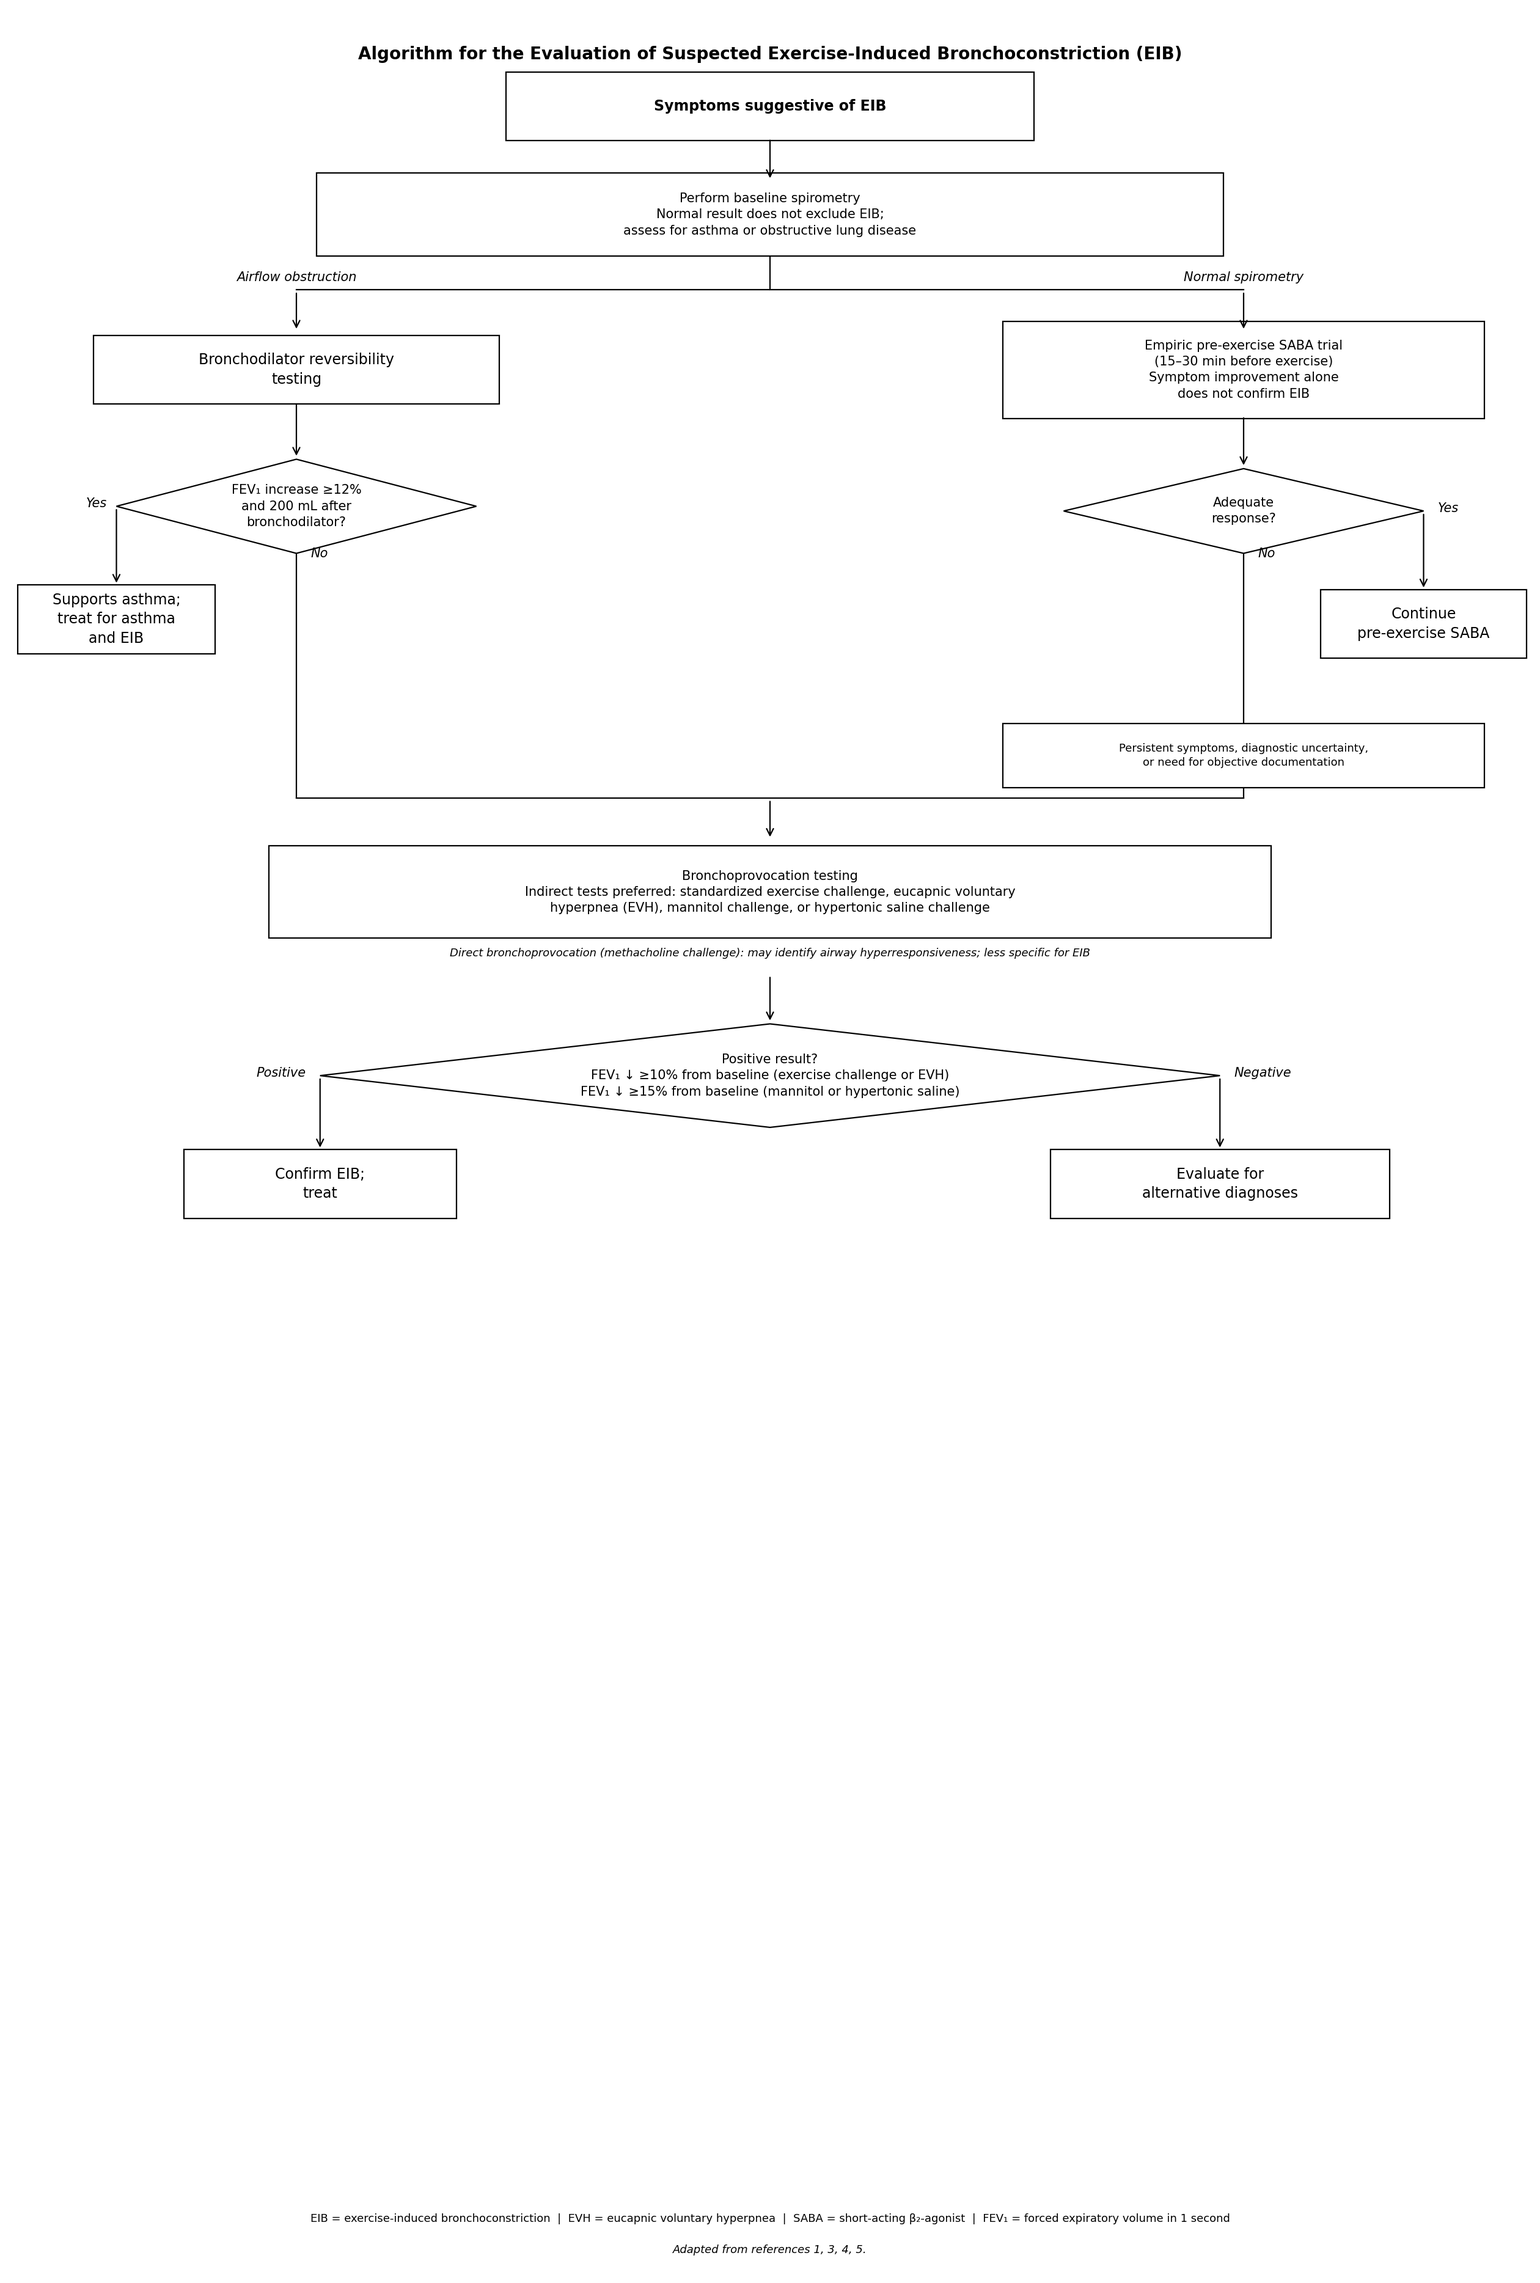
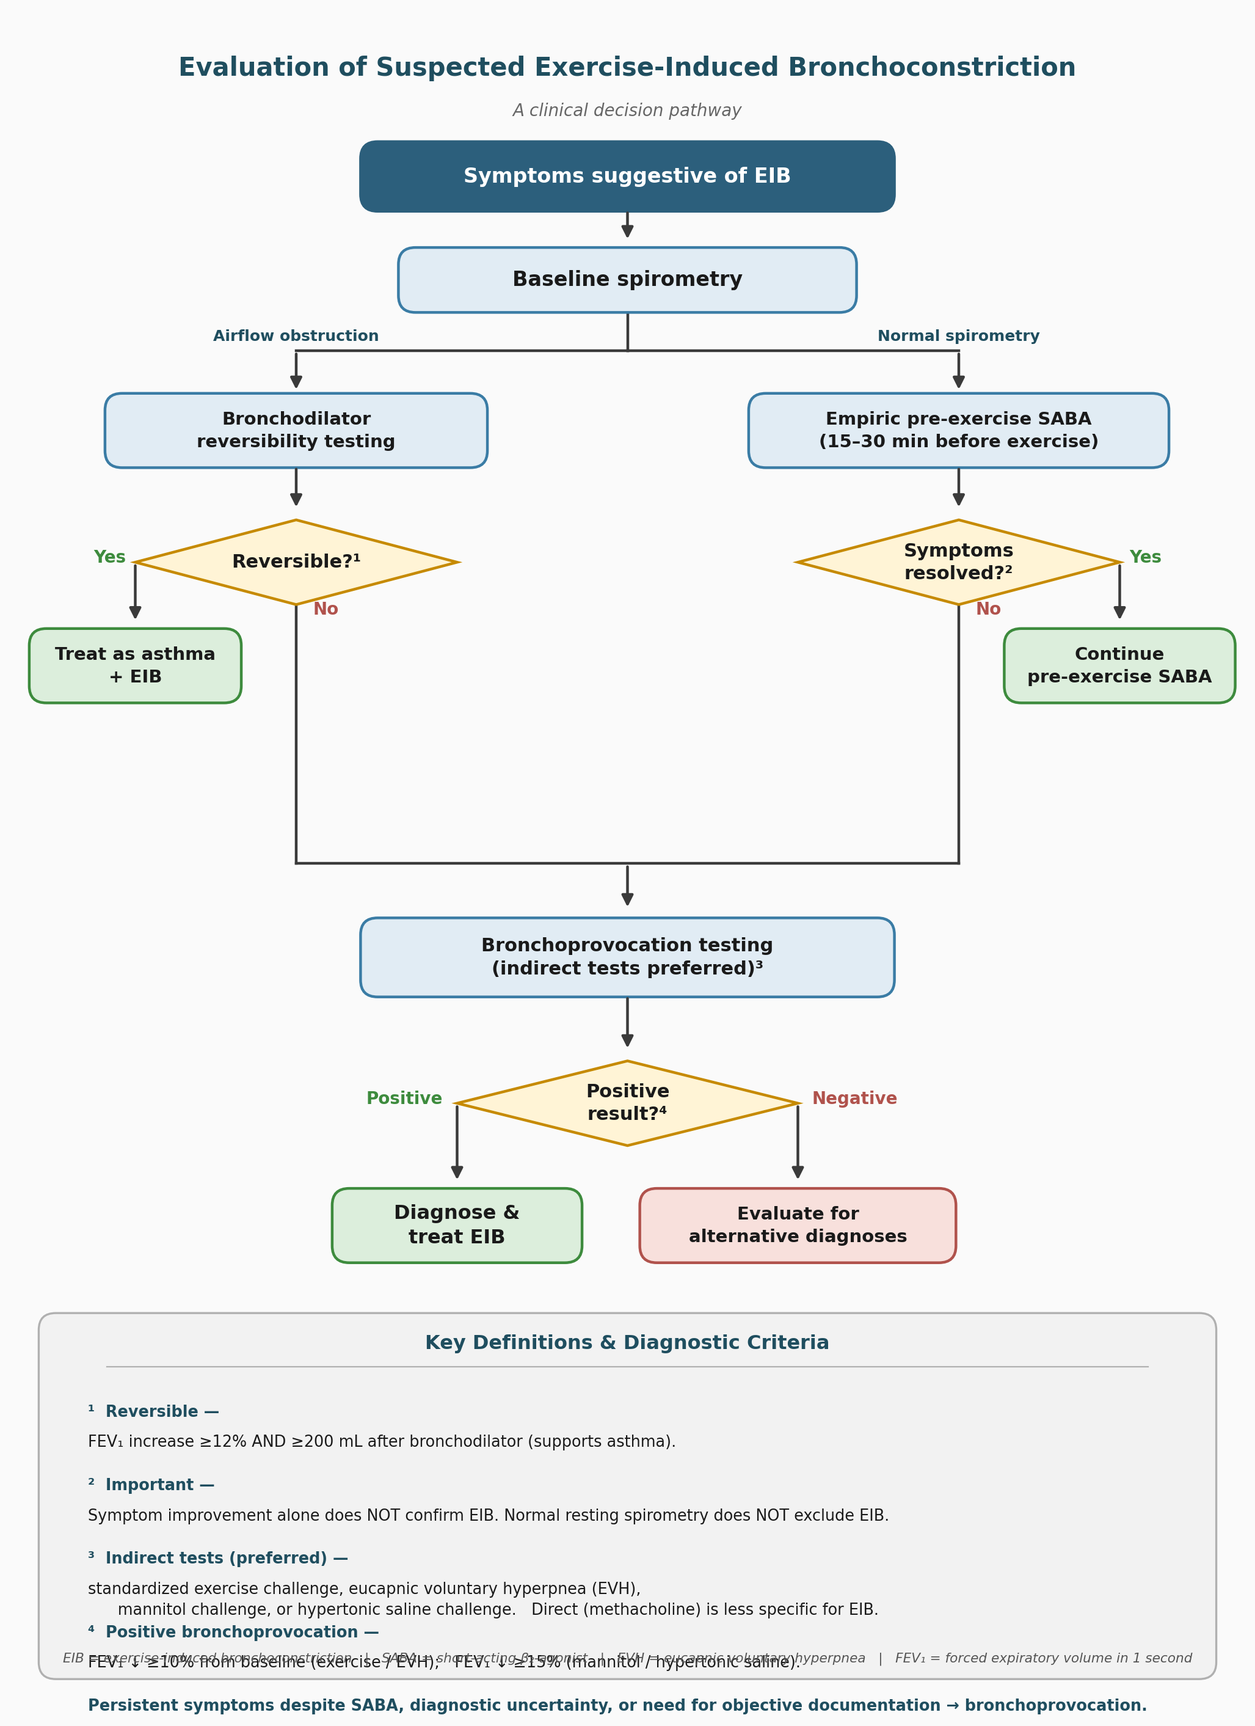
Redesign spirometry pathway for clinical use
- Color-coded shapes by purpose: blue = action/test, amber = decision,
  green = treatment, salmon = alternative diagnosis
- Simplified box content; thresholds moved to a numbered reference
  legend at the bottom of the figure
- Cleaner typography, rounded corners, and a pocket-card style title
  for at-a-glance clinic use

https://claude.ai/code/session_0186zG6Pr9VM5M9H5RAVKgcK

diff --git a/generate_pathway.py b/generate_pathway.py
@@ -1,176 +1,217 @@
 #!/usr/bin/env python3
-"""EIB Spirometry Pathway – AFP rapid evidence review style"""
+"""EIB Spirometry Pathway - clinical pocket-card style."""
 import matplotlib
 matplotlib.use('Agg')
 import matplotlib.pyplot as plt
 from matplotlib.patches import FancyBboxPatch, Polygon
 
-fig, ax = plt.subplots(figsize=(16, 24))
-ax.set_xlim(0, 16)
-ax.set_ylim(0, 24)
+# ── Palette ───────────────────────────────────────────────────────────────
+C_BG          = '#FAFAFA'
+C_TITLE       = '#1F4E5F'
+C_HEADER_FILL = '#2C5F7C'
+C_HEADER_TX   = '#FFFFFF'
+C_ACTION_F    = '#E1ECF4'
+C_ACTION_E    = '#3A7CA5'
+C_DECISION_F  = '#FFF4D6'
+C_DECISION_E  = '#C68A00'
+C_TREAT_F     = '#DCEEDC'
+C_TREAT_E     = '#3D8B3D'
+C_ALT_F       = '#F8E0DC'
+C_ALT_E       = '#B0524C'
+C_TEXT        = '#1A1A1A'
+C_ARROW       = '#3A3A3A'
+C_LEGEND_BG   = '#F2F2F2'
+C_LEGEND_EDGE = '#B0B0B0'
+C_YES         = '#3D8B3D'
+C_NO          = '#B0524C'
+
+plt.rcParams['font.family'] = 'DejaVu Sans'
+
+fig, ax = plt.subplots(figsize=(13, 18))
+ax.set_xlim(0, 13)
+ax.set_ylim(0, 18)
 ax.axis('off')
-fig.patch.set_facecolor('white')
-
-LW = 0.8
-FS = 8.5
-FSS = 7.5
-FST = 7.0
+fig.patch.set_facecolor(C_BG)
+ax.set_facecolor(C_BG)
 
 
-def rect(cx, cy, w, h, text, fs=FS, bold=False, lw=LW):
-    p = FancyBboxPatch((cx - w / 2, cy - h / 2), w, h,
-                       boxstyle="square,pad=0.04",
-                       fc='white', ec='black', lw=lw, zorder=3)
+def rrect(cx, cy, w, h, text, fill, edge, fs=10, bold=False, text_color=None):
+    if text_color is None:
+        text_color = C_TEXT
+    p = FancyBboxPatch((cx - w/2, cy - h/2), w, h,
+                       boxstyle='round,pad=0.02,rounding_size=0.18',
+                       fc=fill, ec=edge, lw=1.6, zorder=3)
     ax.add_patch(p)
     ax.text(cx, cy, text, ha='center', va='center', fontsize=fs,
-            multialignment='center', linespacing=1.4,
+            color=text_color, multialignment='center', linespacing=1.4,
             fontweight='bold' if bold else 'normal', zorder=4)
 
 
-def diam(cx, cy, w, h, text, fs=FSS):
-    pts = [[cx, cy + h / 2], [cx + w / 2, cy],
-           [cx, cy - h / 2], [cx - w / 2, cy]]
-    p = Polygon(pts, fc='white', ec='black', lw=LW, zorder=3)
+def diamond(cx, cy, w, h, text, fs=10):
+    pts = [[cx, cy + h/2], [cx + w/2, cy],
+           [cx, cy - h/2], [cx - w/2, cy]]
+    p = Polygon(pts, fc=C_DECISION_F, ec=C_DECISION_E, lw=1.6, zorder=3)
     ax.add_patch(p)
     ax.text(cx, cy, text, ha='center', va='center', fontsize=fs,
-            multialignment='center', linespacing=1.4, zorder=4)
+            color=C_TEXT, multialignment='center', linespacing=1.35,
+            fontweight='bold', zorder=4)
 
 
 def arr(x1, y1, x2, y2):
     ax.annotate('', xy=(x2, y2), xytext=(x1, y1),
-                arrowprops=dict(arrowstyle='->', color='black', lw=LW,
-                                mutation_scale=10), zorder=5)
+                arrowprops=dict(arrowstyle='-|>', color=C_ARROW, lw=1.6,
+                                mutation_scale=14), zorder=5)
 
 
 def ln(*pts):
     xs, ys = zip(*pts)
-    ax.plot(xs, ys, 'k-', lw=LW, zorder=2)
+    ax.plot(xs, ys, color=C_ARROW, lw=1.6, zorder=2)
 
 
-def lbl(x, y, text, fs=FSS, ha='center', va='center', italic=True):
-    ax.text(x, y, text, ha=ha, va=va, fontsize=fs,
-            style='italic' if italic else 'normal', zorder=6)
+def lbl(x, y, text, fs=9, ha='center', va='center', color='#444444', bold=True):
+    ax.text(x, y, text, ha=ha, va=va, fontsize=fs, color=color,
+            fontweight='bold' if bold else 'normal', zorder=6)
 
 
-# ── Title ─────────────────────────────────────────────────────────────────────
-ax.text(8, 23.55,
-        'Algorithm for the Evaluation of Suspected Exercise-Induced Bronchoconstriction (EIB)',
-        ha='center', va='center', fontsize=10, fontweight='bold', zorder=4)
+# ── Title ─────────────────────────────────────────────────────────────────
+ax.text(6.5, 17.4,
+        'Evaluation of Suspected Exercise-Induced Bronchoconstriction',
+        ha='center', va='center', fontsize=15, fontweight='bold',
+        color=C_TITLE)
+ax.text(6.5, 16.95, 'A clinical decision pathway',
+        ha='center', va='center', fontsize=10, style='italic',
+        color='#666666')
 
-# ── Symptoms box ──────────────────────────────────────────────────────────────
-rect(8, 23.0, 5.5, 0.65, 'Symptoms suggestive of EIB', bold=True, fs=FS)
-arr(8, 22.675, 8, 22.2)
+# ── 1. Symptoms (header chip) ─────────────────────────────────────────────
+rrect(6.5, 16.25, 5.6, 0.7,
+      'Symptoms suggestive of EIB',
+      C_HEADER_FILL, C_HEADER_FILL,
+      fs=12, bold=True, text_color=C_HEADER_TX)
+arr(6.5, 15.9, 6.5, 15.55)
 
-# ── Spirometry box ────────────────────────────────────────────────────────────
-rect(8, 21.85, 9.5, 0.8,
-     'Perform baseline spirometry\n'
-     'Normal result does not exclude EIB;\n'
-     'assess for asthma or obstructive lung disease',
-     fs=FSS)
+# ── 2. Spirometry ─────────────────────────────────────────────────────────
+rrect(6.5, 15.15, 4.8, 0.65,
+      'Baseline spirometry',
+      C_ACTION_F, C_ACTION_E, fs=12, bold=True)
 
-# Branch lines from spirometry
-ln((8, 21.45), (8, 21.05), (3.0, 21.05))
-ln((8, 21.05), (13.0, 21.05))
-arr(3.0, 21.05, 3.0, 20.6)
-arr(13.0, 21.05, 13.0, 20.6)
-lbl(3.0, 21.18, 'Airflow obstruction')
-lbl(13.0, 21.18, 'Normal spirometry')
+# Branch lines
+ln((6.5, 14.825), (6.5, 14.4))
+ln((6.5, 14.4), (3.0, 14.4))
+ln((6.5, 14.4), (10.0, 14.4))
+arr(3.0, 14.4, 3.0, 13.95)
+arr(10.0, 14.4, 10.0, 13.95)
+lbl(3.0, 14.55, 'Airflow obstruction', fs=9, color=C_TITLE)
+lbl(10.0, 14.55, 'Normal spirometry', fs=9, color=C_TITLE)
 
-# ═════════════════════════════════════════════════════════════════════════════
-# LEFT BRANCH – Abnormal spirometry
-# ═════════════════════════════════════════════════════════════════════════════
+# ══════════════════════ LEFT BRANCH ═══════════════════════════════════════
+rrect(3.0, 13.55, 4.0, 0.75,
+      'Bronchodilator\nreversibility testing',
+      C_ACTION_F, C_ACTION_E, fs=10.5, bold=True)
+arr(3.0, 13.175, 3.0, 12.7)
 
-rect(3.0, 20.2, 4.2, 0.65,
-     'Bronchodilator reversibility\ntesting', fs=FS)
-arr(3.0, 19.875, 3.0, 19.25)
+diamond(3.0, 12.15, 3.4, 0.9, 'Reversible?¹', fs=11)
 
-diam(3.0, 18.75, 3.8, 1.0,
-     'FEV₁ increase ≥12%\nand 200 mL after\nbronchodilator?')
+# Yes (left corner: 3.0 - 1.7 = 1.3)
+arr(1.3, 12.15, 1.3, 11.5)
+lbl(1.2, 12.2, 'Yes', fs=10, ha='right', color=C_YES)
+rrect(1.3, 11.05, 2.2, 0.75,
+      'Treat as asthma\n+ EIB',
+      C_TREAT_F, C_TREAT_E, fs=10.5, bold=True)
 
-# Yes – left corner: 3.0 - 3.8/2 = 1.1
-arr(1.1, 18.75, 1.1, 17.9)
-lbl(1.0, 18.78, 'Yes', ha='right')
-rect(1.1, 17.55, 2.0, 0.65,
-     'Supports asthma;\ntreat for asthma\nand EIB', fs=FS)
+# No (bottom corner)
+lbl(3.18, 11.65, 'No', fs=10, ha='left', color=C_NO)
+ln((3.0, 11.7), (3.0, 8.95))
 
-# No – bottom corner: y = 18.75 - 0.5 = 18.25
-lbl(3.15, 18.25, 'No', ha='left')
-ln((3.0, 18.25), (3.0, 15.65))
+# ══════════════════════ RIGHT BRANCH ══════════════════════════════════════
+rrect(10.0, 13.55, 4.4, 0.75,
+      'Empiric pre-exercise SABA\n(15–30 min before exercise)',
+      C_ACTION_F, C_ACTION_E, fs=10.5, bold=True)
+arr(10.0, 13.175, 10.0, 12.7)
 
-# ═════════════════════════════════════════════════════════════════════════════
-# RIGHT BRANCH – Normal spirometry
-# ═════════════════════════════════════════════════════════════════════════════
+diamond(10.0, 12.15, 3.4, 0.9, 'Symptoms\nresolved?²', fs=11)
 
-rect(13.0, 20.2, 5.0, 0.95,
-     'Empiric pre-exercise SABA trial\n(15–30 min before exercise)\n'
-     'Symptom improvement alone\ndoes not confirm EIB',
-     fs=FSS)
+# Yes (right corner: 10.0 + 1.7 = 11.7)
+arr(11.7, 12.15, 11.7, 11.5)
+lbl(11.8, 12.2, 'Yes', fs=10, ha='left', color=C_YES)
+rrect(11.7, 11.05, 2.4, 0.75,
+      'Continue\npre-exercise SABA',
+      C_TREAT_F, C_TREAT_E, fs=10.5, bold=True)
 
-arr(13.0, 19.725, 13.0, 19.15)
+# No (bottom corner)
+lbl(10.18, 11.65, 'No', fs=10, ha='left', color=C_NO)
+ln((10.0, 11.7), (10.0, 8.95))
 
-diam(13.0, 18.7, 3.8, 0.9, 'Adequate\nresponse?')
+# ══════════════════════ MERGE → BRONCHOPROVOCATION ═══════════════════════
+ln((3.0, 8.95), (10.0, 8.95))
+arr(6.5, 8.95, 6.5, 8.45)
 
-# Yes – right corner: 13.0 + 3.8/2 = 14.9
-arr(14.9, 18.7, 14.9, 17.85)
-lbl(15.05, 18.73, 'Yes', ha='left')
-rect(14.9, 17.5, 2.1, 0.65,
-     'Continue\npre-exercise SABA', fs=FS)
+rrect(6.5, 7.95, 5.6, 0.8,
+      'Bronchoprovocation testing\n(indirect tests preferred)³',
+      C_ACTION_F, C_ACTION_E, fs=11, bold=True)
+arr(6.5, 7.55, 6.5, 6.95)
 
-# No – bottom corner: y = 18.7 - 0.45 = 18.25
-lbl(13.15, 18.25, 'No', ha='left')
-ln((13.0, 18.25), (13.0, 16.45))
+diamond(6.5, 6.4, 3.6, 0.9, 'Positive\nresult?⁴', fs=11)
 
-# Small box on right "No" path for context
-rect(13.0, 16.1, 5.0, 0.6,
-     'Persistent symptoms, diagnostic uncertainty,\nor need for objective documentation',
-     fs=6.5)
-ln((13.0, 15.8), (13.0, 15.65))
+# Positive (left corner: 6.5 - 1.8 = 4.7)
+arr(4.7, 6.4, 4.7, 5.55)
+lbl(4.55, 6.45, 'Positive', fs=10, ha='right', color=C_YES)
+rrect(4.7, 5.1, 2.6, 0.75, 'Diagnose &\ntreat EIB',
+      C_TREAT_F, C_TREAT_E, fs=11.5, bold=True)
 
-# ═════════════════════════════════════════════════════════════════════════════
-# MERGE → Bronchoprovocation
-# ═════════════════════════════════════════════════════════════════════════════
+# Negative (right corner)
+arr(8.3, 6.4, 8.3, 5.55)
+lbl(8.45, 6.45, 'Negative', fs=10, ha='left', color=C_NO)
+rrect(8.3, 5.1, 3.3, 0.75,
+      'Evaluate for\nalternative diagnoses',
+      C_ALT_F, C_ALT_E, fs=10.5, bold=True)
 
-ln((3.0, 15.65), (13.0, 15.65))
-arr(8.0, 15.65, 8.0, 15.2)
+# ══════════════════════ LEGEND / REFERENCE BOX ════════════════════════════
+legend = FancyBboxPatch((0.3, 0.3), 12.4, 3.85,
+                        boxstyle='round,pad=0.02,rounding_size=0.18',
+                        fc=C_LEGEND_BG, ec=C_LEGEND_EDGE, lw=1.2, zorder=2)
+ax.add_patch(legend)
 
-# ── Bronchoprovocation box ────────────────────────────────────────────────────
-rect(8.0, 14.65, 10.5, 0.9,
-     'Bronchoprovocation testing\n'
-     'Indirect tests preferred: standardized exercise challenge, eucapnic voluntary\n'
-     'hyperpnea (EVH), mannitol challenge, or hypertonic saline challenge',
-     fs=FSS)
+# Legend header
+ax.text(6.5, 3.85, 'Key Definitions & Diagnostic Criteria',
+        ha='center', va='center', fontsize=11.5, fontweight='bold',
+        color=C_TITLE, zorder=4)
+ax.plot([1.0, 12.0], [3.6, 3.6], color=C_LEGEND_EDGE, lw=0.8, zorder=3)
 
-lbl(8.0, 14.0,
-    'Direct bronchoprovocation (methacholine challenge): may identify airway hyperresponsiveness; '
-    'less specific for EIB',
-    fs=6.5)
+# Numbered notes
+notes = [
+    ('¹  Reversible — ',
+     'FEV₁ increase ≥12% AND ≥200 mL after bronchodilator (supports asthma).'),
+    ('²  Important — ',
+     'Symptom improvement alone does NOT confirm EIB. Normal resting spirometry does NOT exclude EIB.'),
+    ('³  Indirect tests (preferred) — ',
+     'standardized exercise challenge, eucapnic voluntary hyperpnea (EVH),\n      mannitol challenge, or hypertonic saline challenge.   Direct (methacholine) is less specific for EIB.'),
+    ('⁴  Positive bronchoprovocation — ',
+     'FEV₁ ↓ ≥10% from baseline (exercise / EVH);   FEV₁ ↓ ≥15% (mannitol / hypertonic saline).'),
+    ('Persistent symptoms despite SABA, diagnostic uncertainty, or need for objective documentation → bronchoprovocation.',
+     ''),
+]
 
-arr(8.0, 13.78, 8.0, 13.25)
+y = 3.2
+for key, body in notes:
+    ax.text(0.8, y, key, ha='left', va='top', fontsize=9.2,
+            fontweight='bold', color=C_TITLE, zorder=4)
+    if body:
+        # Compute offset by character width approximation; use separate line if too long
+        ax.text(0.8, y - 0.32, body, ha='left', va='top', fontsize=9.2,
+                color=C_TEXT, zorder=4, linespacing=1.4)
+        y -= 0.78
+    else:
+        y -= 0.45
 
-# ── Result diamond ────────────────────────────────────────────────────────────
-diam(8.0, 12.7, 9.5, 1.1,
-     'Positive result?\n'
-     'FEV₁ ↓ ≥10% from baseline (exercise challenge or EVH)\n'
-     'FEV₁ ↓ ≥15% from baseline (mannitol or hypertonic saline)')
-
-# Positive – left corner: 8.0 - 9.5/2 = 3.25
-arr(3.25, 12.7, 3.25, 11.9)
-lbl(3.1, 12.73, 'Positive', ha='right')
-rect(3.25, 11.55, 2.8, 0.65, 'Confirm EIB;\ntreat', fs=FS)
-
-# Negative – right corner: 8.0 + 9.5/2 = 12.75
-arr(12.75, 12.7, 12.75, 11.9)
-lbl(12.9, 12.73, 'Negative', ha='left')
-rect(12.75, 11.55, 3.5, 0.65,
-     'Evaluate for\nalternative diagnoses', fs=FS)
-
-# ── Abbreviations / footnote ──────────────────────────────────────────────────
-lbl(8.0, 0.55,
-    'EIB = exercise-induced bronchoconstriction  |  EVH = eucapnic voluntary hyperpnea  |  '
-    'SABA = short-acting β₂-agonist  |  FEV₁ = forced expiratory volume in 1 second',
-    fs=6.5, italic=False)
-lbl(8.0, 0.22, 'Adapted from references 1, 3, 4, 5.', fs=6.5)
+# Abbreviations footer
+ax.text(6.5, 0.5,
+        'EIB = exercise-induced bronchoconstriction   |   '
+        'SABA = short-acting β₂-agonist   |   '
+        'EVH = eucapnic voluntary hyperpnea   |   '
+        'FEV₁ = forced expiratory volume in 1 second',
+        ha='center', va='center', fontsize=7.8, color='#555555',
+        style='italic', zorder=4)
 
 plt.savefig('/home/user/bronchoclaude/spirometry_pathway.png',
-            dpi=200, bbox_inches='tight', facecolor='white', format='png')
+            dpi=200, bbox_inches='tight', facecolor=C_BG, format='png')
 print('Saved spirometry_pathway.png')
